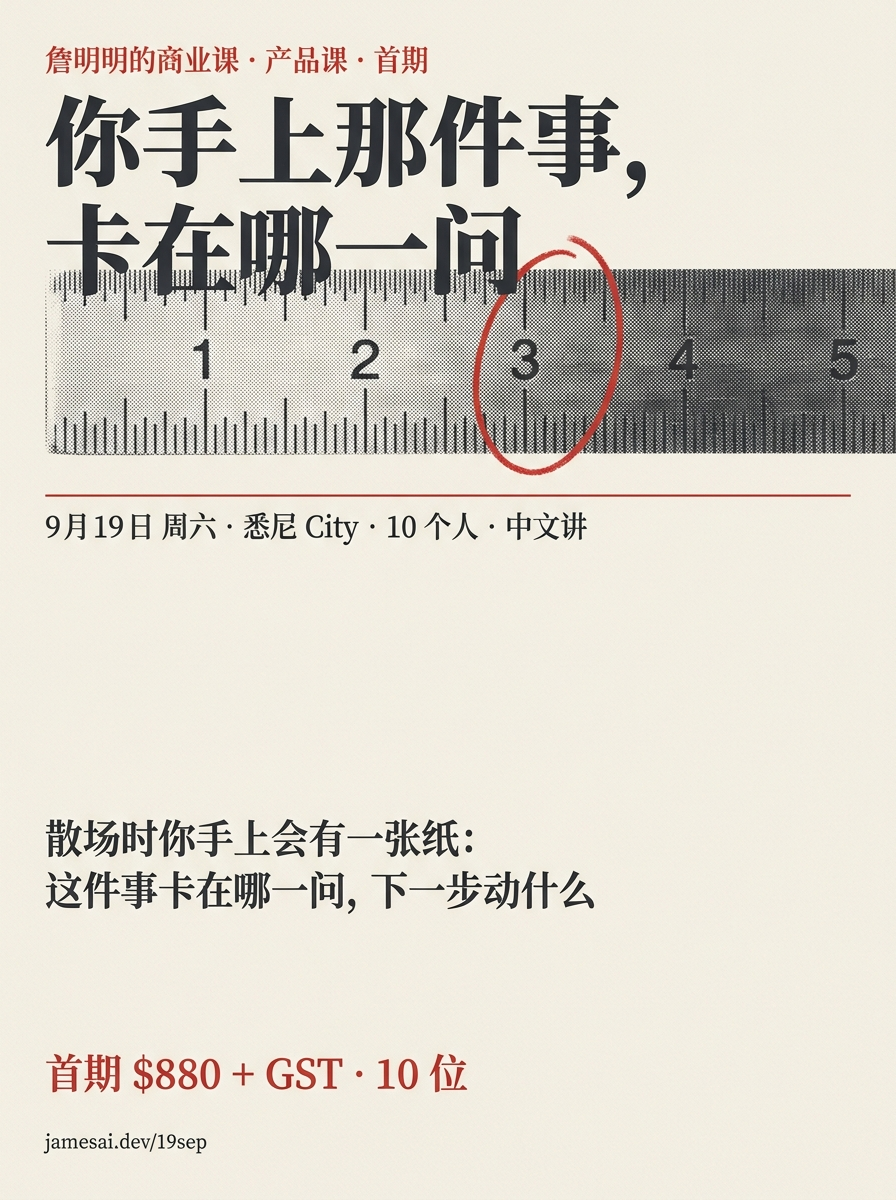
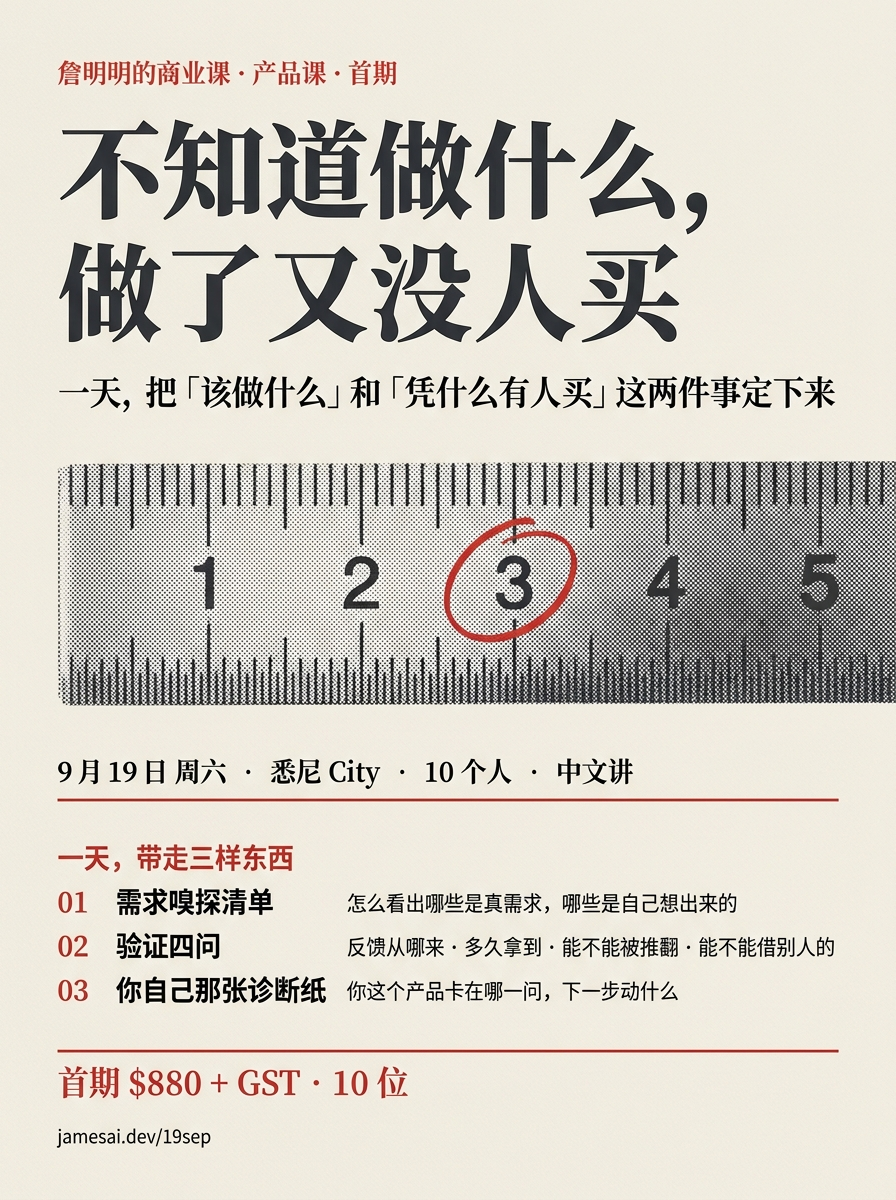
Widen the class to people still choosing what to build, and show the day's shape

diff --git a/19sep/index.html b/19sep/index.html
@@ -4,7 +4,7 @@
 <meta charset="utf-8">
 <meta name="viewport" content="width=device-width, initial-scale=1, viewport-fit=cover">
 <title>产品课 · 詹明明的商业课 · 9月19日 悉尼</title>
-<meta name="description" content="2026年9月19日周六，悉尼 City，一整天，10 个人，中文讲。给已经在做线上产品的人：做出来之后没人付钱，问题出在哪，下一步动什么。">
+<meta name="description" content="2026年9月19日周六，悉尼 City，一整天，10 个人，中文讲。一天把「该做什么」和「凭什么有人买」这两件事定下来。带走：需求嗅探清单 · 验证四问 · 你自己那张诊断纸。">
 <meta name="theme-color" content="#faf8f4" media="(prefers-color-scheme: light)">
 <meta name="theme-color" content="#12110e" media="(prefers-color-scheme: dark)">
 <link rel="icon" href="../assets/favicon.png" sizes="48x48">
@@ -13,8 +13,8 @@
 <link rel="apple-touch-icon" href="../assets/favicon-180.png">
 <link rel="canonical" href="https://jamesai.dev/19sep/">
 <meta property="og:type" content="website">
-<meta property="og:title" content="你手上那件事，卡在哪一问">
-<meta property="og:description" content="9月19日周六 · 悉尼 City · 一整天 · 10 个人 · 中文讲">
+<meta property="og:title" content="不知道做什么，做了又没人买">
+<meta property="og:description" content="《詹明明的商业课 · 产品课》首期 · 9月19日周六 · 悉尼 City · 10 个人 · 中文讲">
 <meta property="og:url" content="https://jamesai.dev/19sep/">
 <meta property="og:image" content="https://jamesai.dev/19sep/poster.png">
 <meta name="twitter:card" content="summary_large_image">
@@ -152,7 +152,23 @@ p:last-child { margin-bottom: 0; }
 .take li::marker { color: var(--ink-faint); }
 
 /* Placeholders still to be filled in before this page goes live. */
-.todo { font-family: ui-monospace, Menlo, monospace; color: var(--accent); }
+/* The day's shape. Times lead because a Saturday has to be planned around. */
+.clock { margin: 0 0 1.1rem; }
+.clock div {
+  display: grid;
+  grid-template-columns: 4.2rem 1fr;
+  gap: 0 1rem;
+  padding: 0.42rem 0;
+  border-top: 1px solid var(--rule);
+}
+.clock div:last-child { border-bottom: 1px solid var(--rule); }
+.clock dt {
+  font-family: var(--sans);
+  font-size: 0.82rem;
+  letter-spacing: 0.04em;
+  color: var(--ink-faint);
+}
+.clock dd { margin: 0; font-size: 0.95em; }
 
 footer {
   border-top: 1px solid var(--rule-strong);
@@ -172,7 +188,7 @@ footer a:hover { color: var(--accent); border-color: var(--accent); }
 <div class="wrap">
 
   <img class="poster" src="poster.png" width="896" height="1200"
-       alt="詹明明的商业课 · 产品课 · 首期。你手上那件事，卡在哪一问。9 月 19 日周六，悉尼 City，10 个人，中文讲。散场时你手上会有一张纸：这件事卡在哪一问，下一步动什么。首期 $880 + GST，10 位。">
+       alt="詹明明的商业课 · 产品课 · 首期。不知道做什么，做了又没人买。一天，把「该做什么」和「凭什么有人买」这两件事定下来。9 月 19 日周六，悉尼 City，10 个人，中文讲。一天带走三样东西：需求嗅探清单、验证四问、你自己那张诊断纸。首期 $880 + GST，10 位。">
 
   <section>
     <h2>这是哪一门</h2>
@@ -188,7 +204,14 @@ footer a:hover { color: var(--accent); border-color: var(--accent); }
 
   <section>
     <h2>那天怎么过</h2>
-    <p class="soft">全天 <span class="todo">TIME_TODO</span>，中间有午餐。不教工具怎么用，也不从「怎么想点子」讲起——你已经过了那一步。</p>
+    <dl class="clock">
+      <div><dt>09:30</dt><dd>签到</dd></div>
+      <div><dt>10:00</dt><dd>上午</dd></div>
+      <div><dt>12:30</dt><dd>午餐 · 一小时，<b>自理</b>（课程不含餐）</dd></div>
+      <div><dt>13:30</dt><dd>下午</dd></div>
+      <div><dt>17:30</dt><dd>结束</dd></div>
+    </dl>
+    <p class="soft">不教工具怎么用。六段按顺序走，后一段要靠前一段的结论才立得住。</p>
     <ol class="run">
       <li>
         <b>你做的那个东西，还不算产品</b>
@@ -199,38 +222,44 @@ footer a:hover { color: var(--accent); border-color: var(--accent); }
         <span>你现在既是做的人，又是给自己打分的人——这是为什么你自己看不出问题在哪，也是为什么改了三版还是没人买。</span>
       </li>
       <li>
+        <b>需求嗅探：哪些是真需求，哪些是你自己想出来的</b>
+        <span>还没想好做什么的，这一段是给你的：去哪儿看、看什么、怎么判断一个需求是真的有人在为它花钱，而不是你觉得它应该存在。已经在做的人，用它回头检一遍自己那个。</span>
+      </li>
+      <li>
         <b>验证四问</b>
         <span>反馈从哪来 · 多久拿到 · 能不能被推翻 · 能不能借别人的。这是那把尺子本身，你之后每个新想法都能自己过一遍。</span>
       </li>
       <li>
         <b>十个人，一个一个上来</b>
-        <span>把你的产品拿出来，当场过一遍四问，我现场拆。<b>这是那天最花时间的部分，也是你来的原因。</b></span>
+        <span>把你的产品——或者你正在考虑做的那个方向——拿出来，当场过一遍四问，我现场拆。<b>这是那天最花时间的部分，也是你来的原因。</b></span>
       </li>
       <li>
         <b>收尾：把你那张纸写完</b>
         <span>卡在哪一问，下一步动什么。</span>
       </li>
     </ol>
-    <p class="soft">带上你的产品——能当场打开给我看的那个版本就行。</p>
+    <p class="soft">带上你的产品——能当场打开给我看的那个版本就行。还没开始做的，带上你正在考虑的两三个方向。</p>
   </section>
 
   <section>
     <h2>你带走什么</h2>
     <ul class="take">
-      <li>一张纸：<b>你这个产品卡在哪一问，下一步动什么。</b></li>
-      <li>那把尺子本身。以后每个新点子，你自己就能过一遍。</li>
-      <li><b>另外九个产品被拆解的全过程。</b>十个人的场，你只讲一次，但要听九次——多数人事后说这部分比自己那一轮更有用。</li>
+      <li><b>需求嗅探清单</b>——怎么看出哪些是真需求，哪些是自己想出来的。</li>
+      <li><b>验证四问</b>。那把尺子本身，以后每个新点子你自己就能过一遍。</li>
+      <li><b>你自己那张诊断纸</b>：卡在哪一问，下一步动什么。</li>
+      <li>还有一样不在清单上：<b>另外九个项目被拆解的全过程。</b>十个人的场，你只讲一次，但要听九次。</li>
     </ul>
   </section>
 
   <section>
     <h2>给谁</h2>
     <p>
-      已经在做线上产品或工具的人——独立开发、出海、SaaS、副业项目都算。
-      东西做出来了，但没人知道、没人付钱。
+      两种人，这一天都覆盖：<br>
+      <b>已经在做线上产品或工具的</b>——独立开发、出海、SaaS、副业项目都算。东西做出来了，但没人知道、没人付钱。<br>
+      <b>想做但还不知道做什么的</b>——有时间有能力，就是不知道该往哪儿使劲，或者有几个方向定不下来。
     </p>
     <p class="soft">
-      不覆盖三种人：还没开始做任何东西的；做线下生意的老板；想学某个工具怎么操作的。
+      不覆盖两种人：做线下生意的老板（这一门只讲线上产品）；想学某个工具怎么操作的。
     </p>
   </section>
 
